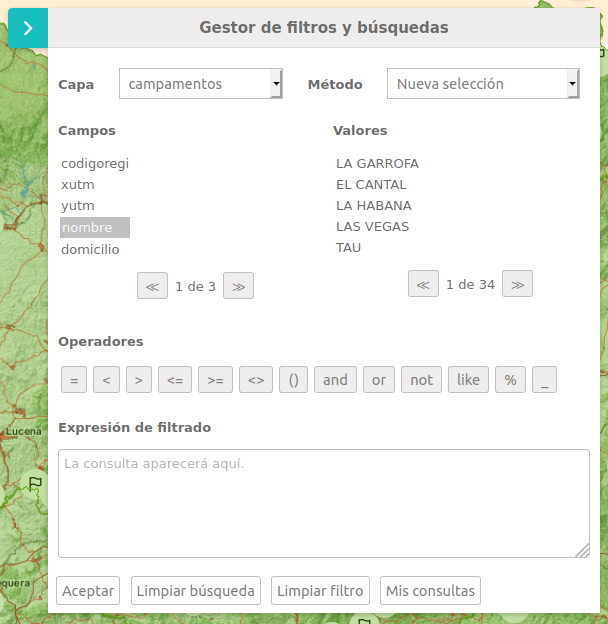
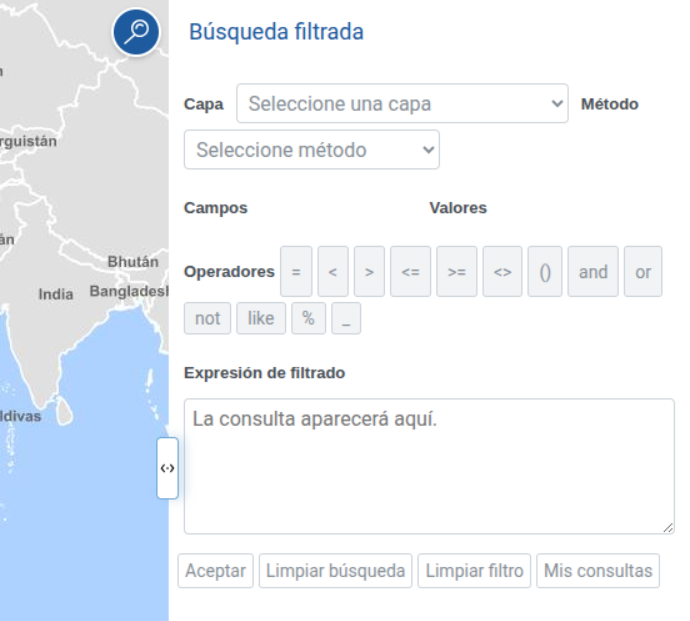
Actualizacion imagen readme

diff --git a/api-idee-js/src/plugins/filteredsearch/README.md b/api-idee-js/src/plugins/filteredsearch/README.md
@@ -134,7 +134,7 @@ npm run start:cesium
 Metodologías y herramientas usadas en el proyecto para garantizar el Quality Assurance Code (QAC)
 
 * ESLint
-  * [NPM ESLint](https://www.npmjs.com/package/eslint) \
+  * [NPM ESLint](https://www.npmjs.com/package/eslint)
   * [NPM ESLint | Airbnb](https://www.npmjs.com/package/eslint-config-airbnb)
 
 ## ⛽ Revisión e instalación de dependencias / *Review and Update Dependencies*
